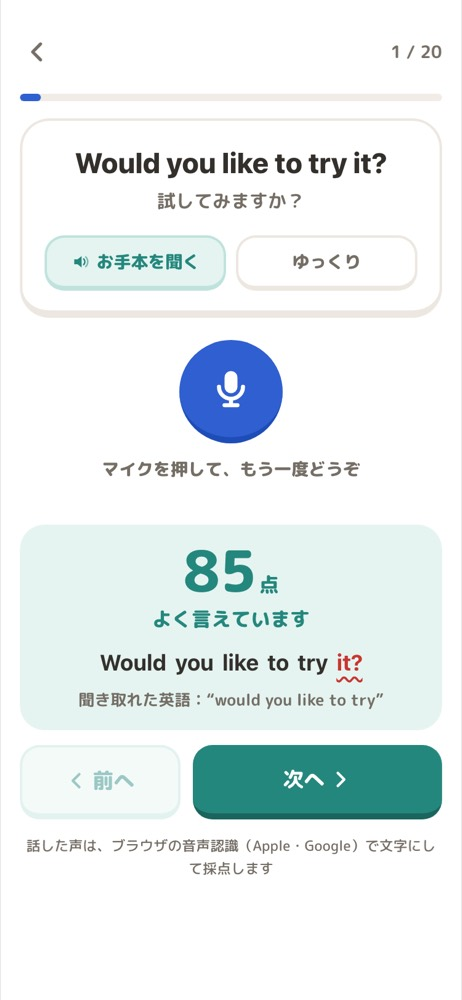
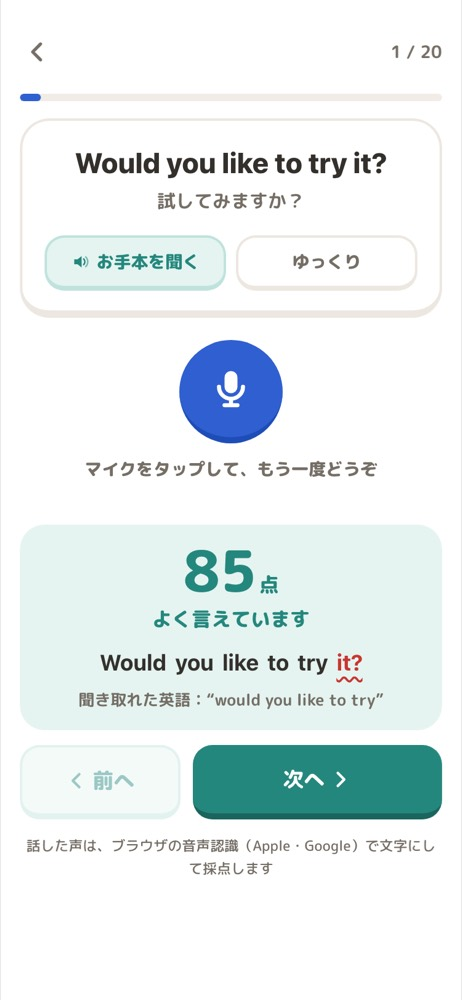
発音チェックのマイクを長押ししても選択されないようにし、案内を分かりやすくする
英単語・例文と入力欄以外は、長押しで選択やメニューが出ないようにした。
マイクは「タップしてから話す(長押し不要・自動で止まる)」と案内し、音声入力オフやLINE内ブラウザのときは対処法を出す。

Changed region(s): [[0.1818, 0.434, 0.8182, 0.496]]

diff --git a/index.html b/index.html
@@ -72,8 +72,14 @@
     font-family:var(--font-ui); font-weight:500; font-size:17px; line-height:1.6;
     -webkit-font-smoothing:antialiased; touch-action:manipulation;
     -webkit-tap-highlight-color:transparent;
+    /* 長押しで文字やアイコンが選択されたり、メニューが出たりしないようにする(ボタンを長押ししたときに邪魔になるため)。
+       コピーできるのは、一覧の英単語・例文と入力欄だけ(辞書で調べたい人向け) */
+    -webkit-user-select:none; user-select:none; -webkit-touch-callout:none;
   }
   body.sheet-open{ overflow:hidden; }
+  input, textarea, .item-en [lang="en"], .item-ex-en{ -webkit-user-select:text; user-select:text; -webkit-touch-callout:default; }
+  img, svg{ -webkit-user-drag:none; }
+  button svg, button img{ pointer-events:none; }
   button{ font-family:inherit; color:inherit; }
   .app{ max-width:720px; margin:0 auto; padding:calc(20px + env(safe-area-inset-top)) 16px calc(28px + env(safe-area-inset-bottom)); }
   h1{ font-size:21px; font-weight:800; margin:0 0 4px; }
@@ -169,7 +175,7 @@
     background:var(--surface); border:2px solid var(--hair); border-radius:16px;
   }
   .item-body{ flex:1; min-width:0; }
-  .item-en{ font-family:var(--font-en); font-size:18px; font-weight:700; line-height:1.35; overflow-wrap:anywhere; -webkit-user-select:text; user-select:text; }
+  .item-en{ font-family:var(--font-en); font-size:18px; font-weight:700; line-height:1.35; overflow-wrap:anywhere; }
   .item-ja{ font-size:15px; color:var(--sub); overflow-wrap:anywhere; margin-top:2px; }
   .item-ex{ margin-top:8px; padding:8px 10px; border-radius:10px; background:var(--track); font-size:14px; line-height:1.5; }
   .item-ex-en{ font-family:var(--font-en); font-weight:600; overflow-wrap:anywhere; }
@@ -333,6 +339,7 @@
   .mic-btn.listening{ background:var(--danger); border-bottom-color:rgba(0,0,0,.3); animation:micPulse 1.2s ease-in-out infinite; }
   @keyframes micPulse{ 0%,100%{ box-shadow:0 0 0 0 rgba(201,53,47,.45); } 50%{ box-shadow:0 0 0 16px rgba(201,53,47,0); } }
   .mic-label{ margin:10px 0 0; font-size:14px; font-weight:800; color:var(--sub); text-align:center; }
+  .mic-label small{ font-size:12px; font-weight:700; }
   .mic-interim{ margin:4px 0 0; min-height:22px; font-family:var(--font-en); font-size:15px; text-align:center; overflow-wrap:anywhere; }
   .pron-result{ border-radius:20px; padding:14px 16px; margin-bottom:12px; text-align:center; animation:fadeIn .2s ease-out; }
   .pron-result.great, .pron-result.good{ background:var(--accent-light); color:var(--accent); }
@@ -1427,13 +1434,21 @@ function pronRate(items){
   items.forEach(w => { const s = state.pron[w.id]; if(s){ n += s.n; ok += s.ok; } });
   return n ? Math.round(100 * ok / n) : null;
 }
-function startPron(entries, title, back, tone){
+// LINE・Instagram などのアプリの中で開いたブラウザでは、マイクや音声の聞き取りが使えないことが多い
+const IN_APP_BROWSER = /\bLine\/|Instagram|FBAN|FBAV|MicroMessenger/i.test(navigator.userAgent);
+function startPron(entries, title, back, tone, force){
   if(entries.length === 0) return;
-  if(!SpeechRec){
-    openSheet(`${sheetHead("発音チェック")}
-      <p style="margin:0 0 8px;">このブラウザは音声の聞き取りに対応していません。</p>
-      <p class="sub" style="font-size:14px;">iPhone は <b>Safari</b>、パソコンや Android は <b>Google Chrome</b> で開くと使えます。</p>
+  if(!SpeechRec || (IN_APP_BROWSER && !force)){
+    const { close, $ } = openSheet(`${sheetHead("発音チェック")}
+      ${IN_APP_BROWSER
+        ? `<p style="margin:0 0 8px;">LINE などのアプリの中で開いた画面では、マイクがうまく使えないことがあります。</p>
+           <p class="sub" style="font-size:14px;">画面の右上か右下のメニューから「<b>ブラウザで開く</b>」（iPhone は Safari）を選んで開き直してください。</p>`
+        : `<p style="margin:0 0 8px;">このブラウザは音声の聞き取りに対応していません。</p>
+           <p class="sub" style="font-size:14px;">iPhone は <b>Safari</b>、パソコンや Android は <b>Google Chrome</b> で開くと使えます。</p>`}
+      ${SpeechRec ? `<button class="btn secondary" id="btnPronAnyway">このまま試す</button>` : ""}
       <button class="btn" data-close>閉じる</button>`);
+    const anyway = $("#btnPronAnyway");
+    if(anyway) anyway.onclick = () => { close(); startPron(entries, title, back, tone, true); };
     return;
   }
   // 点数の低いもの・まだ試していないものから出す
@@ -1473,7 +1488,7 @@ function renderPron(){
     </div>
     <div class="pron-mic-area">
       <button class="mic-btn" id="micBtn" aria-label="マイクで話す">${ICON.mic(36)}</button>
-      <p class="mic-label" id="micLabel">マイクを押して、英語で言ってみよう</p>
+      <p class="mic-label" id="micLabel">マイクをタップしてから、英語で言ってみよう<br><small>（長押しは不要。話し終わると自動で止まります）</small></p>
       <p class="mic-interim" id="micInterim" lang="en"></p>
     </div>
     <div id="pronResult"></div>
@@ -1507,6 +1522,7 @@ function renderPron(){
     </div>`;
   };
   if(pron.results[w.id]) showResult(pron.results[w.id]);
+  micBtn.addEventListener("contextmenu", e => e.preventDefault());
   micBtn.onclick = () => {
     if(currentRec){ try{ currentRec.stop(); }catch(e){} return; } // 2回目のタップで話し終わり
     stopSpeech(); // お手本の音を拾わないように止める
@@ -1518,7 +1534,7 @@ function renderPron(){
     let finals = [], alts = [], interim = "", err = null, timer = null;
     rec.onstart = () => {
       micBtn.classList.add("listening");
-      label.textContent = "聞いています… 言い終わったら少し待つか、もう一度押してください";
+      label.textContent = "聞いています… 話し終わると自動で止まります";
       interimEl.textContent = "";
     };
     rec.onresult = e => {
@@ -1540,10 +1556,11 @@ function renderPron(){
       micBtn.classList.remove("listening");
       const heardList = [finals.join(" "), ...alts, interim].map(x => x.trim()).filter(Boolean);
       if(heardList.length === 0){
-        label.textContent = err === "not-allowed" || err === "service-not-allowed" ? "マイクが使えません。ブラウザの設定でマイクを許可してください"
+        label.textContent = err === "not-allowed" ? "マイクの使用が許可されていません。ブラウザの設定で、このページのマイクを「許可」にしてください"
+          : err === "service-not-allowed" ? "音声の聞き取りが使えません。iPhoneは「設定 → 一般 → キーボード → 音声入力」をオンにしてください"
           : err === "network" ? "通信できませんでした。インターネットにつながっているか確認してください"
           : err === "audio-capture" ? "マイクが見つかりませんでした"
-          : "聞き取れませんでした。もう一度マイクを押して、はっきり話してください";
+          : "聞き取れませんでした。もう一度マイクをタップして、はっきり話してください";
         return;
       }
       const r = bestPronScore(w.en, heardList);
@@ -1552,7 +1569,7 @@ function renderPron(){
       pron.results[w.id] = r;
       showResult(r);
       interimEl.textContent = "";
-      label.textContent = r.score >= PRON_PASS ? "もう一度言うときはマイクを押してください" : "マイクを押して、もう一度どうぞ";
+      label.textContent = r.score >= PRON_PASS ? "もう一度言うときはマイクをタップ" : "マイクをタップして、もう一度どうぞ";
       nextBtn.innerHTML = `${nextLabel()}${ICON.right(18)}`;
     };
     currentRec = rec;
@@ -1584,7 +1601,7 @@ function renderPronEnd(){
       ${tried.length
         ? `<h1>正答率 ${Math.round(100 * passed.length / tried.length)}%</h1>
            <p class="sub">${tried.length}語中 ${passed.length}語が${PRON_PASS}点以上（平均 ${avg}点）</p>`
-        : `<h1>おつかれさまでした</h1><p class="sub">マイクを押して話すと、点数が出ます</p>`}
+        : `<h1>おつかれさまでした</h1><p class="sub">マイクをタップして話すと、点数が出ます</p>`}
     </div>
     ${notYet.length > 0 && notYet.length < pron.queue.length
       ? `<button class="btn btn-mic" id="btnPronRetry">${PRON_PASS}点未満の${notYet.length}語をもう一度</button>
@@ -1753,7 +1770,7 @@ const TUTORIAL = [
     text:`<p>一覧の下の「カードで覚える」から始めます。<br>カードをタップすると裏返り、<br>左右にスワイプすると次のカードへ進みます。</p>`,
     points:[{ side:"l", ax:0.04, ay:0.5 }] },
   { img:"pron", title:"発音チェック",
-    text:`<ol><li><b>1</b>「発音チェック」でマイクを押して、英語で言ってみます</li><li><b>2</b>通じるかを0〜100点で採点。言えていない単語には赤い波線が付きます</li></ol>`,
+    text:`<ol><li><b>1</b>「発音チェック」でマイクをタップして、英語で言ってみます（長押しは不要）</li><li><b>2</b>通じるかを0〜100点で採点。言えていない単語には赤い波線が付きます</li></ol>`,
     points:[{ side:"r", ax:0.9 }, { side:"l", ax:0.08, ay:0.3 }] },
   { img:"add", title:"マイ単語帳に追加",
     text:`<ol><li><b>1</b>お客さまに言われた言葉やお店の言葉は、日本語を入れるだけ</li><li><b>2</b>英語の候補が出るので、選んで「追加する」を押せばOK</li></ol>`,

diff --git a/tools/shot.html b/tools/shot.html
@@ -27,7 +27,7 @@ const SCENES = {
     marks: ["#catRows .item-row:nth-child(2) [data-act=speak]", "#catRows .item-row:nth-child(2) [data-act=fav]", "#catRows .item-row:nth-child(2) .item-ex"] },
   flash: { run: "currentCatId='stroller'; startFlash(itemsOfCat('stroller'), 'ベビーカー', {view:'cat', catId:'stroller'}, 'accent'); document.getElementById('btnFlashStart').click(); flash.queue = [BUILTIN_MAP.get('stroller-18'), ...flash.queue.filter(w => w.id !== 'stroller-18')]; render();",
     marks: ["#flashInner"] },
-  pron: { run: "currentCatId='phrase'; startPron(itemsOfCat('phrase'), '接客のひと言', {view:'cat', catId:'phrase'}, 'accent'); const w = BUILTIN_MAP.get('phrase-7'); pron.queue = [w, ...pron.queue.filter(x => x !== w)]; pron.idx = 0; const r = scorePron(w.en, 'would you like to try'); pron.results[w.id] = r; pron.scores[w.id] = r.score; render(); document.getElementById('micLabel').textContent = 'マイクを押して、もう一度どうぞ';",
+  pron: { run: "currentCatId='phrase'; startPron(itemsOfCat('phrase'), '接客のひと言', {view:'cat', catId:'phrase'}, 'accent'); const w = BUILTIN_MAP.get('phrase-7'); pron.queue = [w, ...pron.queue.filter(x => x !== w)]; pron.idx = 0; const r = scorePron(w.en, 'would you like to try'); pron.results[w.id] = r; pron.scores[w.id] = r.score; render(); document.getElementById('micLabel').textContent = 'マイクをタップして、もう一度どうぞ';",
     marks: ["#micBtn", ".pron-result"] },
   add: { run: "translateCache.set('機内持ち込み', ['carry-on']); go('my'); showAddWordSheet(null, () => {}); const j = document.getElementById('inJa'); j.value = '機内持ち込み'; j.dispatchEvent(new InputEvent('input')); document.querySelectorAll('#suggestBox .suggest-item')[1].click(); document.activeElement && document.activeElement.blur();",
     marks: ["#inJa", "#suggestBox"] },
